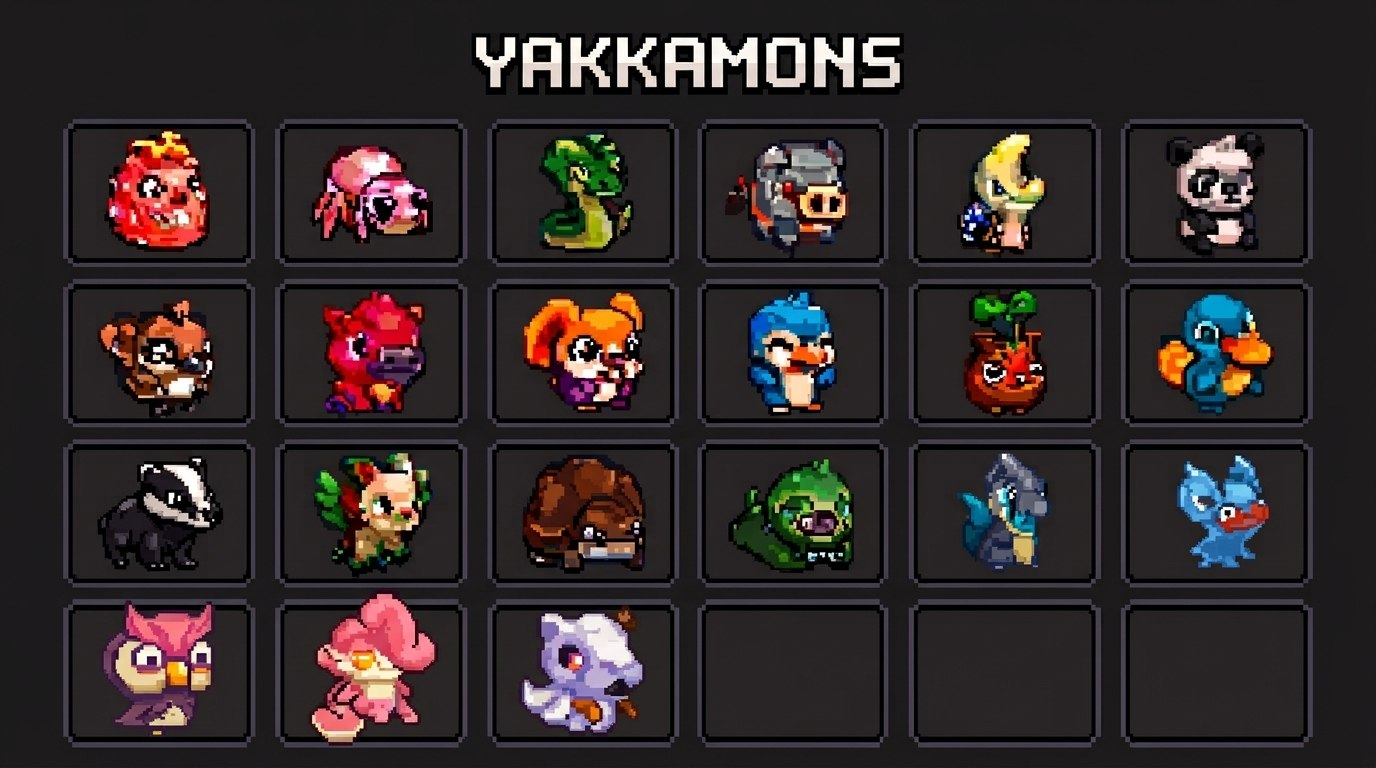
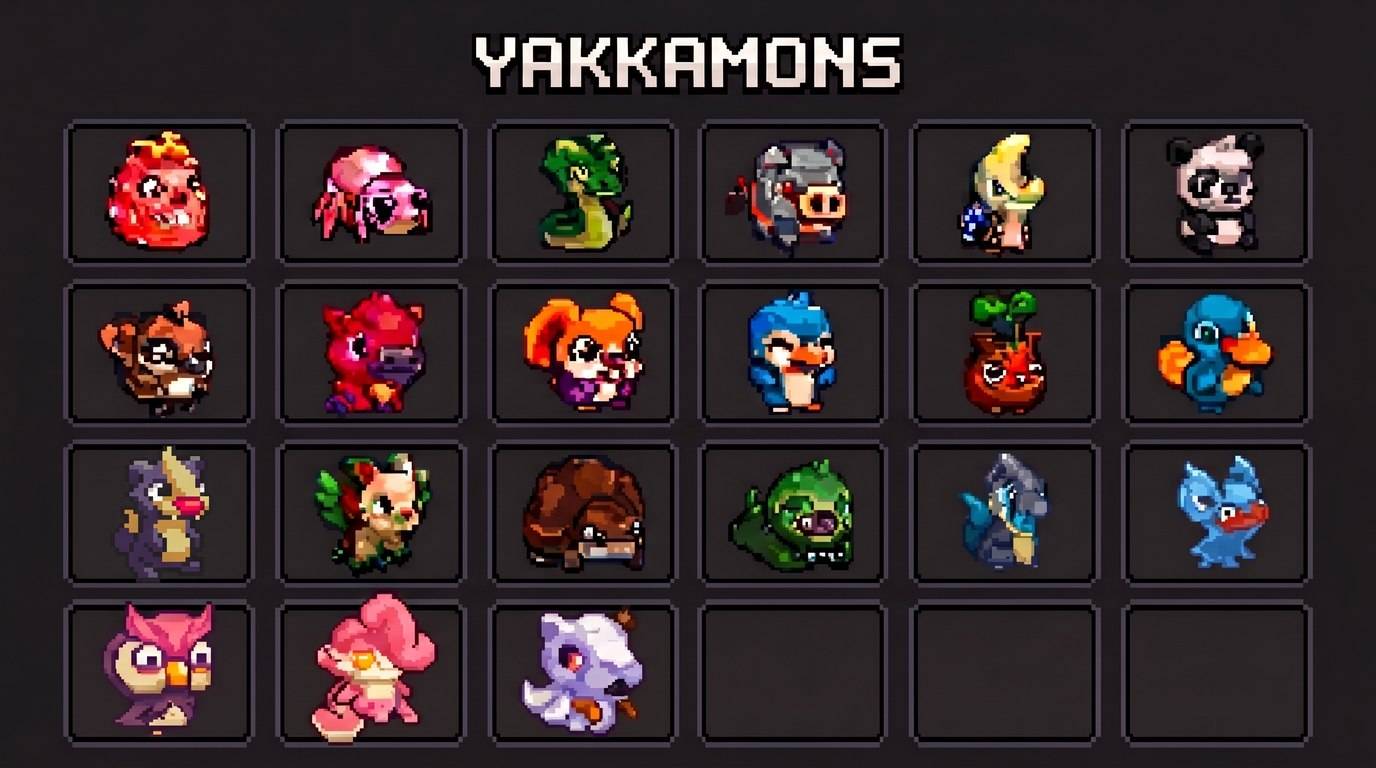
Add files via upload

diff --git a/posts.js b/posts.js
@@ -138,7 +138,7 @@ const YAKKAMON_POSTS = [
     date: "Aug 17, 2026",
     excerpt: "The official roster sheet shows eighteen creatures against an expected 50\u201360 at launch \u2014 updated 25 Aug as the sheet grew to twenty-one. Portraits only \u2014 no names, no types, no rarities.",
     body: [
-      "<em>Update, 25 August:</em> a newer official sheet keeps the original eighteen and starts a fourth row with <strong>three new creatures</strong> \u2014 a pink owl, a blossom-pink creature carrying a small bowl, and a pale hooded creature \u2014 taking the revealed roster to <strong>twenty-one</strong>, roughly two-fifths of the expected 50\u201360. Still no names, no types, no rarities. The original piece follows as written.",
+      "<em>Update, 25 August:</em> a newer official sheet starts a fourth row with <strong>three new creatures</strong> \u2014 a pink owl, a blossom-pink creature carrying a small bowl, and a pale hooded creature \u2014 and a follow-up version corrects one of the original eighteen: the badger's slot now holds an upright purple-and-cream creature with a red nose. Twenty-one shown in total, roughly two-fifths of the expected 50\u201360; still no names, no types, no rarities. The original piece follows as written.",
       "An official roster sheet has surfaced showing <strong>eighteen Yakkamon</strong> side by side \u2014 the first proper look at the creatures themselves rather than the systems around them.",
       "## The one number that gives it context",
       "The team has said to expect roughly <strong>50 to 60 Yakkamon at launch</strong>. Against that, eighteen is about <strong>a third of the early access roster</strong> \u2014 enough to read the art direction, nowhere near enough to plan around. Roughly two in every three creatures you'll meet are still unseen.",

diff --git a/article-yakkamon-roster-revealed.html b/article-yakkamon-roster-revealed.html
@@ -116,7 +116,7 @@
     <div class="wrap"><div class="article-body">
       <p>An official roster sheet has surfaced showing <strong>eighteen Yakkamon</strong> side by side &mdash; the first proper look at the creatures themselves rather than the systems around them.</p>
 
-      <div class="prereg-callout info"><strong>Updated 25 August &mdash; the sheet has grown to twenty-one.</strong> A newer official sheet keeps the original eighteen, in the same order, and starts a fourth row with <strong>three new creatures</strong>: a pink owl, a blossom-pink creature carrying a small bowl, and a pale hooded creature. Still no names, no types, no rarities. Against the expected 50&ndash;60 at launch, the revealed roster moves from about a third to <strong>roughly two-fifths</strong>. Everything below stands as written on 17 August.</div>
+      <div class="prereg-callout info"><strong>Updated 25 August &mdash; the sheet has grown to twenty-one, with one correction.</strong> A newer official sheet starts a fourth row with <strong>three new creatures</strong> &mdash; a pink owl, a blossom-pink creature carrying a small bowl, and a pale hooded creature &mdash; and a follow-up version corrects <strong>one of the original eighteen</strong>: the badger's slot now holds an upright purple-and-cream creature with a red nose. The other seventeen are unchanged and in the same order. Still no names, no types, no rarities. Against the expected 50&ndash;60 at launch, the revealed roster moves from about a third to <strong>roughly two-fifths</strong>. Everything below stands as written on 17 August &mdash; including the original sheet, badger and all.</div>
 
       <figure class="roster-figure">
         <a href="yakkamon-roster-21-2x.jpg" target="_blank" rel="noopener" title="Open the updated roster sheet full size">
